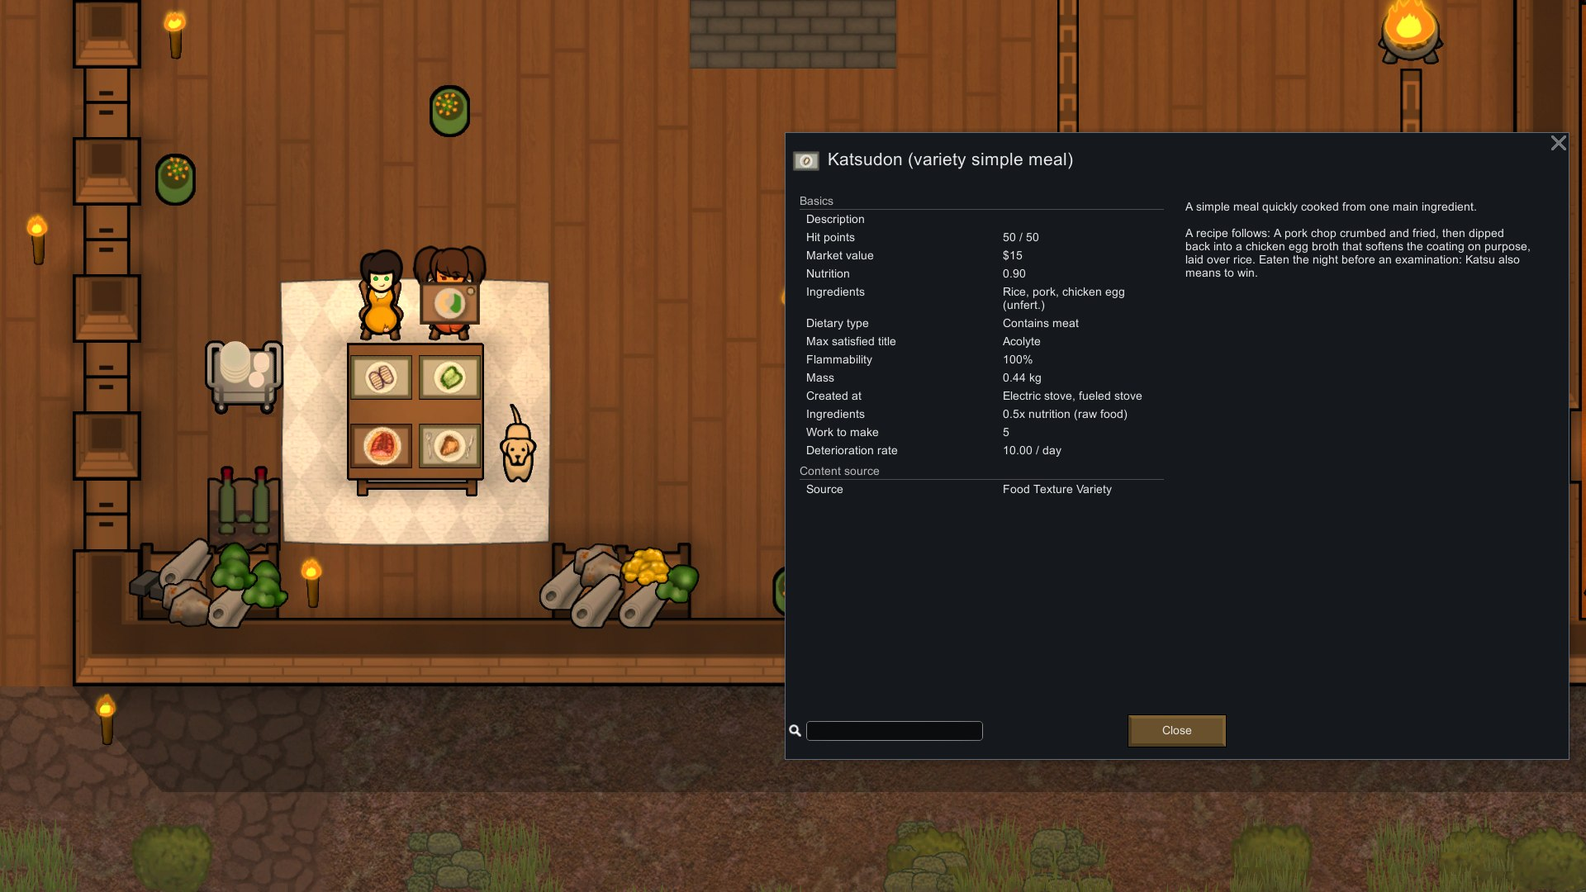
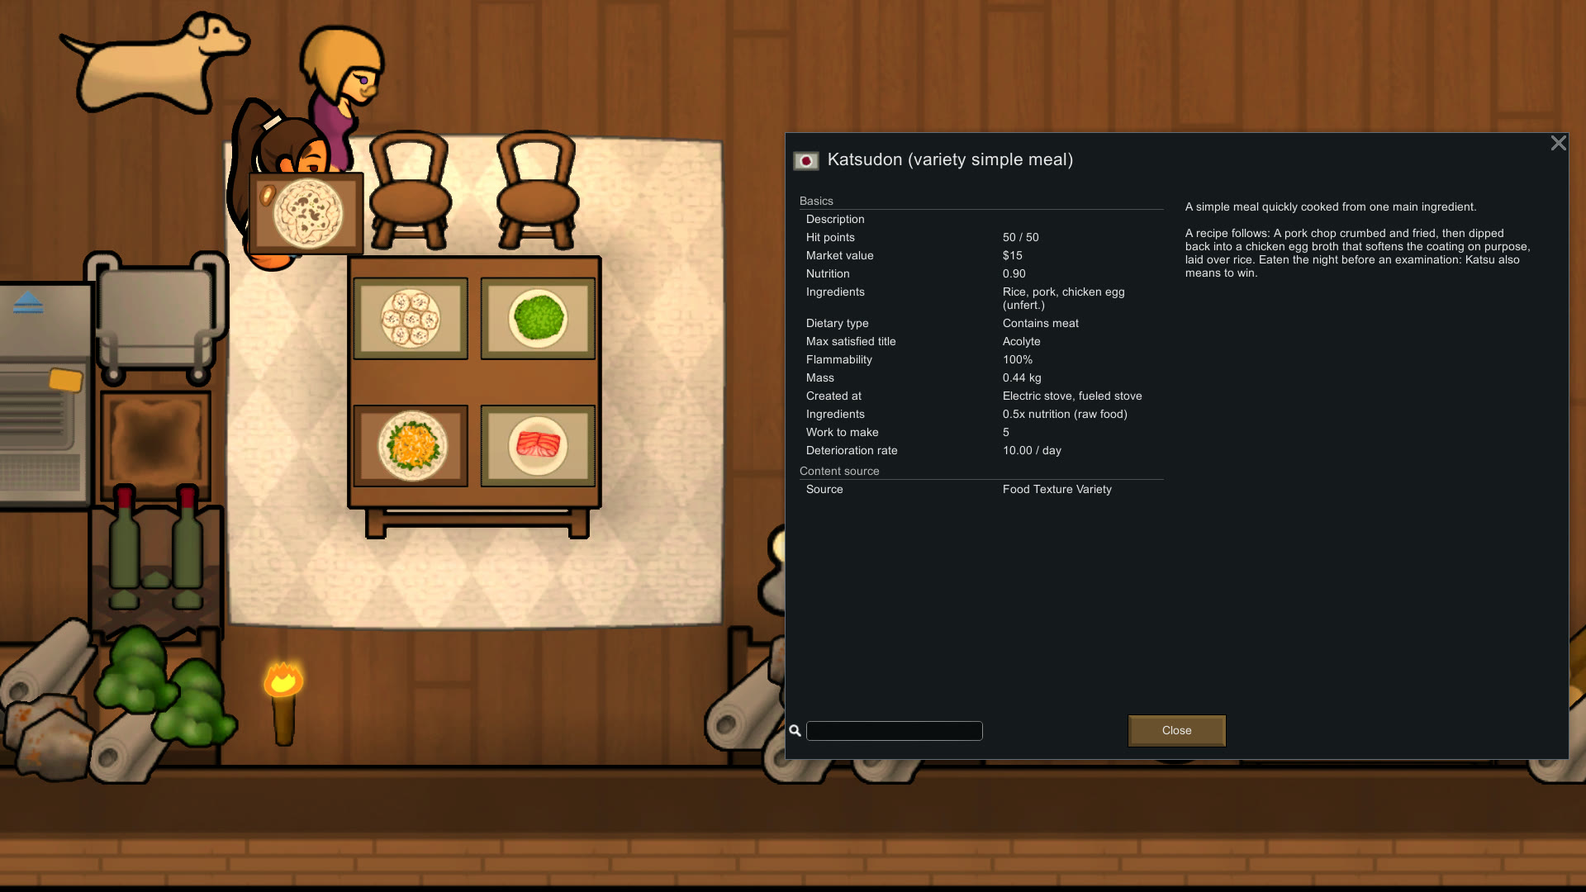
Gallery: pass 7 read, scene 4 logs moved to (191, 88), candidates 1 and 2 kept, NSB and NPT synced

diff --git a/STATUS.md b/STATUS.md
@@ -29,7 +29,7 @@ workshop:     3806100152
 publication_changelog_review_sha: 7f265e28f384edd36d247537fcdd01cc9102865e  # 2026-10-13, owner review of PUBLICATION.md + CHANGELOG.md for the 1.3 line (RimWorld 1.7 support)
 code_review_sha: e4b8606f7aa439285f379d4580b8788011000f75  # 2026-10-13, review of f206a19 to e4b8606f7aa439285f379d4580b8788011000f75: 0 findings; Mod/ diff is About.xml only (modVersion 1.3.0, supportedVersions 1.6 and 1.7, matches the green 1.7 diagnostic) and the Preview images. Earlier: f206a19 (2026-10-13), 83f7019 (2026-10-11), bb13483 (2026-10-06).
 remaining:
-  - "open: PASS 7 FILED 2026-11-10: ticket 20261110-113145-211-2751 on 6dda38e (scenes 1, 2, 4, -NoBatch, -SkipDefCheck, tree frozen until RUN_DONE, evidence Tests/Pickle/Inbox/2026-11-10-gallery-pass-7; check summary total is 3; scene 2 Guest was not visible in pass 6, read its Guest log lines). Before it: PASS 6 READ 2026-11-10 (ticket 38e8 RUN_DONE exit 1): total 3, 2 passed, 1 failed. Scene 4 failed: cell (187, 85) already holds VFEPD_WoodenWagon; VFEPD_WoodenLogs moved to (190, 88) in the feature (header line 10 and step), unplayed. Guest drew in scene 1 (no Exception drawing Guest; the 18 NullReferenceException in Player.log are JobDriver_Ingest on a Yorkshire terrier, ambient fauna). Captures of scenes 1 and 2 (in Inbox 2026-11-10-gallery-pass-6) first look: scene 1 Guest small and half hidden behind Nelim at the top left, scene 2 Guest not visible (Shogun at the other chair), Nelim seated and not biting: score-gallery verdict and refile still to do; ask Virginie before filing. NPT steps changed 2026-11-10: sync-nsb-npt (NPT part) due. PASS 6 FILED 2026-11-10: ticket 20261110-001938-784-38e8 on f2e5b39 (scenes 1, 2, 4, -NoBatch, -SkipDefCheck, tree frozen until RUN_DONE, evidence Tests/Pickle/Inbox/2026-11-10-gallery-pass-6; check summary total is 3, Guest drawn in 1 and 2, read [face-parts] and [face-state] lines of Player.log and send them to PiT, scene 4 logs at (187, 85)). Before it: PASS 5 (ticket 543b) READ 2026-11-10: total 4, 2 passed, 2 failed. Scene 1 failed: Log.Error Exception drawing Guest (NullReferenceException in FacialAnimationControllerComp.UpdateAnimation; Guest never draws, so scene 2 passed with an empty chair, REDO, old 2-candidate deleted). Scene 4 failed: cell (190, 83) already holds FenceGate (decor VFEPD_WoodenLogs line 180 of the feature, pick a free cell). Scene 3 passed, capture opened, 268 px check ok, kept as Art/Gallery/3-candidate-blanquette-shogun-hen.jpg (replaces the older one). NPT asked 2026-11-10 (PiT session) which steps make an anonymous Guest safe for FacialAnimation; waiting for the answer. Then: fix scene 4 cell, fix Guest steps, refile scenes 1, 2, 4 (-NoBatch, -SkipDefCheck), old 1-candidate-table-laid.jpg stays until scene 1 is replayed. Inbox folder Tests/Pickle/Inbox/2026-11-09-gallery-pass-5 kept until refile (Player.log is the NPT evidence). Earlier: REPLAY 4 (ticket d5d0) READ 2026-11-09: 2/2 passed, both captures REFUSED and deleted with the Inbox folders of replays 3 and 4. Scene 2: Nelim stands at the chair facing East, not eating, guest Miel absent, bare rug, only chairs and plates (decor weak, adequacy weak, understanding weak). Scene 4: hat in view but the potato sack hides her body, no loose Long hair, tiny, only torches and fence as decor (adequacy, understanding, decoration under 4). DONE 2026-11-09: sync-nsb-npt, all four scenes recomposed, plan 5, drift check OK. PASS 5 FILED 2026-11-09: ticket 20261109-003112-827-543b on c01007e (all four scenes, -NoBatch, -SkipDefCheck because the pre-check flags FTV Core 3354455179 as not on disk, as before; every cited def exists; tree frozen until RUN_DONE; evidence Tests/Pickle/Inbox/2026-11-09-gallery-pass-5; check summary total is 4). At RUN_DONE: read summary.json, open the four captures (1920x1080, Guest visible in 1 and 2, Nelim facing South in 2, no sack over Nelim in 4), score-gallery, delete REDO captures, recompose, refile. Was: run sync-nsb-npt, recompose scenes 2 and 4 (guest in frame, richer decor, a fallback pose that reads at once, Nelim bigger), score-gallery, Check-ShotlistVsScenario, refile; scenes 1 and 3 follow; one single review by the owner at the end (rule 2026-11-08). Older detail: gallery pass 4 (refit scenes 1 to 3 of the shotlist at 4/5, see Shotlist). Ec48 passed 4/4 (2026-10-18, tree 2747b08): read by the session: 1 refused (four identical katsudon plates, says nothing), 2 kept as candidate (2-candidate-two-dishes-empadao-gnocchi.jpg, card Empadao and Gnocchi, Nelim at the chair), 3 refused as redundant (same plates), 4 refused (Nelim tiny, potato sack hides her, bare garden). Pass 4 plays 1 to 4 of 10-gallery-scenes.feature with four different recipes cooked once each on the table, per-scene outfit, held items, animals and decor; scene 4 also plays in pass 4 (owner order 2026-10-18, without waiting for NPT ticket e457): straw hat over Long loose hair, Show Hair Under Stuff (RaccoonCuddler.ShowHair 3255379190) added to the map; if no hair shows under the hat, replay without the hat. Meals are cooked with the Food Texture Variety recipes FTV_CookMealSimple and FTV_CookMealFine (2026-10-18, owner remark): ingredient pairs chosen for their own FTV texture (beef+potatoes, egg+rice, corn+pork, berries+milk); never played, and Flavor Text may not name FTV_MealSimple, then the card steps fail and the vanilla recipes come back. Decor reworked 2026-10-18 to kitchen props of VFE Props and Decor (all 1x1 per NPT, FoodBox 2x2 swapped for WineRack; GALLERY-PROPS.md "Kitchen and meals"; a placement that fails falls back to the old chest, barrel and hay bale); the FTV Core mod (3354455179) is not in the Windows Workshop folder: read on the capture whether the staging fetched it; Check-Steps.ps1 could not run (Pickle assemblies path): the step texts reuse the played ones plus carries 1 of the item, never played. REPLAY 2 FILED 2026-10-20: ticket 20261020-004150-259-7618 (scenes 2 and 4, scene 4 frame moved to (195, 85) zoom 6; tree frozen until RUN_DONE; evidence Tests/Pickle/Inbox/2026-10-20-gallery-pass-4-replay-2; check the resolution is 1920x1080). REPLAY 3869 READ 2026-10-20: 2/2 passed, both captures refused (scene 2: 1280x720 while the others are 1920x1080, Nelim tiny, not eating; scene 4: Nelim hidden under the info card, no hat visible); scene 2 keeps 2-candidate-two-dishes-empadao-gnocchi.jpg meanwhile (borderline: four identical plates); RECOMPOSED 2026-10-30; TODO: update the scene 4 row of the Shotlist table (zoom 6, carries 1 potato, faces South; feature differs from the table). Rate-gallery plan 2026-10-30: 4.5, 4.5, 5, 4 (scene 3 e weak, scene 4 e and j weak). REPLAY 4 FILED 2026-10-30: ticket 20261030-162606-872-d5d0 on dc99eb5 (scenes 2 and 4, -NoBatch, tree frozen until RUN_DONE, evidence Tests/Pickle/Inbox/2026-10-30-gallery-pass-4-replay-4; check summary total is 2). Earlier note: recompose scenes 2 and 4 (resolution, card off Nelim, hat in view) before any new ticket. RECOMPOSED 2026-10-25: scene 2 frame (179, 109) zoom 4, scene 4 frame (194, 85) zoom 5, hat mod switched to Hat Hair Control 3760821540 (owner's choice 2026-10-20, seed in config/gallery-scenes/); the 1280x720 size is not a ticket option, read it on the capture. Replay 2 folder (ticket 7618, exit 139 boot crash, no report) deleted. REPLAY 3 (bb59) READ 2026-10-30: total 3 (the filter also ran the card scenario), 2 passed, 1 failed: scene 2 "no MealFine lies at (176, 109); there is Table2x2c, RusticRug_Broad, FTV_MealFine" (the forced Ingest step needs the def name FTV_MealFine, fix the feature line, then replay scene 2 alone); scene 4 passed, capture 1920x1080 but REFUSED (potato sack hides Nelim, no loose Long hair visible under the hat, she is small; hen and Gnocchi card ok): RECOMPOSED 2026-10-30 in the feature: zoom 6 at (194, 85), carries 1 RawPotatoes, faces South (hair and face to the camera); scene 1 haul and scene 2 Ingest now name FTV_MealFine; not yet played, next ticket = scenes 2 and 4 (then 1 and 3). Evidence stays in Tests/Pickle/Inbox/2026-10-25-gallery-pass-4-replay-3 until scene 2 and 4 are read again. REPLAY 3 FILED 2026-10-25: ticket 20261025-163115-785-bb59 on a83f3bd (scenes 2 and 4, -NoBatch, tree frozen until RUN_DONE, evidence Tests/Pickle/Inbox/2026-10-25-gallery-pass-4-replay-3; -List showed tests=? : check the report holds 2 scenarios). ON RUN_DONE of bb59: read summary.json (total must be 2, exitReason), then junit.xml; open both captures (1920x1080? Nelim big and left of the card, scene 2 mid-bite with Ingest face and Miel at (175,110), scene 4 hat over loose Long hair, potatoes in her arms, hen in front); scene 2 tick count 90 is a guess, adjust; give a verdict per capture (accept/refuse), keep serious ones as N-candidate-name.jpg in Art/Gallery, delete the Inbox folder, then refile scenes 1 and 3 (forced haul of MealFine for Nelim, Miel mid-walk, scene 3 stands-next-to with Meat_Cow) and update the Replay verdict column of the shotlist. Keep the Player.log if the screen is 1280x720 and send NPT the ticket id. NPT proof ticket 35f9 (forced Ingest) read 2026-10-25: NOT PROVEN (job starts, cat abandons it on Milk 30 ticks later, probably because the species does not eat it); Nelim eating a MealFine stays unplayed, so scene 2 may need its fallback (stands at the chair holding MealSimple). Preview checked up to date 2026-10-25 (7f56a76, sha matches social_preview_sha256). Ticket cdb2 (tree 139f578) ran 2026-10-18: scenes 1 and 3 passed and were kept as candidates (1-candidate-table-laid.jpg, 3-candidate-blanquette-shogun-hen.jpg, plates differ, kitchen props, dog and hen); scene 2 failed (hairstyle Bun does not exist, now FancyBun), scene 4 failed (no meal named FlavorTextFR_Gnocchi, now FlavorTextFR_GnocchiSolo); replay of scenes 2 and 4 filed as ticket 20261019-153604-220-3869 on tree 7f6ddfd (-List showed tests=35 instead of 2: if the report holds more than 2 scenarios the filter did not apply, refile; at RUN_DONE also triage Inbox with Prune-Evidence.ps1, release Parked 2026-10-18-gallery-pass-4 when scenes 2 and 4 are green, STALE Evidence folders 122-with-optionals and 122-without-odyssey were read and kept, About.xml diff read) (frozen until RUN_DONE, evidence Tests/Pickle/Inbox/2026-10-19-gallery-pass-4-replay); the run is parked in Tests/Pickle/Parked/2026-10-18-gallery-pass-4 (RELEASE.md) until scenes 2 and 4 pass again, scene 2 eating pose and scene 4 hat still unread; earlier tickets ( earlier tickets 8b51, 6dd5, 8fbc, 3ceb cancelled unstarted). On RUN_DONE: read summary.json (total 4), open every capture, check the plates differ (FTV Core 3354455179 not in the Windows Workshop folder), scene 2 eating pose (normal+Ingest, standing at the chair facing South; NPT wrote North by mistake, not yet told), scene 4 hair under the hat (remove the hat if none shows), kitchen props placed; keep serious ones as N-candidate-name.jpg; add seen in a capture to GALLERY-PROPS.md (protocols root, commit by path) for FTV and VFE Props and Decor. The seat step asked of NPT is moot (NPT answered: existing steps). Release steps 9a, 9b due at prepareRelease."
+  - "open: PASS 7 READ 2026-11-12 (ticket 2751 RUN_DONE exit 1): total 3, 2 passed, 1 failed. Scene 4 failed: VFEPD_FoodBox (2x2 at (189, 87)) covers (190, 88); VFEPD_WoodenLogs moved to (191, 88) in the feature (header line 10 and step), unplayed. Scenes 1 and 2 captures read: 1 shows Nelim with the plate, Guest, Shogun, four different dishes (kept as 1-candidate-table-laid.jpg, replaces the old one); 2 shows Nelim seated, Shogun front view, four different dishes, Guest not in frame (kept as 2-candidate-two-dishes-nelim-shogun.jpg); both tentative until the owner review at the end. Next: refile scene 4 alone (ask Virginie first), then score-gallery and one review. PASS 7 FILED 2026-11-10: ticket 20261110-113145-211-2751 on 6dda38e (scenes 1, 2, 4, -NoBatch, -SkipDefCheck, tree frozen until RUN_DONE, evidence Tests/Pickle/Inbox/2026-11-10-gallery-pass-7; check summary total is 3; scene 2 Guest was not visible in pass 6, read its Guest log lines). Before it: PASS 6 READ 2026-11-10 (ticket 38e8 RUN_DONE exit 1): total 3, 2 passed, 1 failed. Scene 4 failed: cell (187, 85) already holds VFEPD_WoodenWagon; VFEPD_WoodenLogs moved to (190, 88) in the feature (header line 10 and step), unplayed. Guest drew in scene 1 (no Exception drawing Guest; the 18 NullReferenceException in Player.log are JobDriver_Ingest on a Yorkshire terrier, ambient fauna). Captures of scenes 1 and 2 (in Inbox 2026-11-10-gallery-pass-6) first look: scene 1 Guest small and half hidden behind Nelim at the top left, scene 2 Guest not visible (Shogun at the other chair), Nelim seated and not biting: score-gallery verdict and refile still to do; ask Virginie before filing. NPT steps changed 2026-11-10: sync-nsb-npt (NPT part) due. PASS 6 FILED 2026-11-10: ticket 20261110-001938-784-38e8 on f2e5b39 (scenes 1, 2, 4, -NoBatch, -SkipDefCheck, tree frozen until RUN_DONE, evidence Tests/Pickle/Inbox/2026-11-10-gallery-pass-6; check summary total is 3, Guest drawn in 1 and 2, read [face-parts] and [face-state] lines of Player.log and send them to PiT, scene 4 logs at (187, 85)). Before it: PASS 5 (ticket 543b) READ 2026-11-10: total 4, 2 passed, 2 failed. Scene 1 failed: Log.Error Exception drawing Guest (NullReferenceException in FacialAnimationControllerComp.UpdateAnimation; Guest never draws, so scene 2 passed with an empty chair, REDO, old 2-candidate deleted). Scene 4 failed: cell (190, 83) already holds FenceGate (decor VFEPD_WoodenLogs line 180 of the feature, pick a free cell). Scene 3 passed, capture opened, 268 px check ok, kept as Art/Gallery/3-candidate-blanquette-shogun-hen.jpg (replaces the older one). NPT asked 2026-11-10 (PiT session) which steps make an anonymous Guest safe for FacialAnimation; waiting for the answer. Then: fix scene 4 cell, fix Guest steps, refile scenes 1, 2, 4 (-NoBatch, -SkipDefCheck), old 1-candidate-table-laid.jpg stays until scene 1 is replayed. Inbox folder Tests/Pickle/Inbox/2026-11-09-gallery-pass-5 kept until refile (Player.log is the NPT evidence). Earlier: REPLAY 4 (ticket d5d0) READ 2026-11-09: 2/2 passed, both captures REFUSED and deleted with the Inbox folders of replays 3 and 4. Scene 2: Nelim stands at the chair facing East, not eating, guest Miel absent, bare rug, only chairs and plates (decor weak, adequacy weak, understanding weak). Scene 4: hat in view but the potato sack hides her body, no loose Long hair, tiny, only torches and fence as decor (adequacy, understanding, decoration under 4). DONE 2026-11-09: sync-nsb-npt, all four scenes recomposed, plan 5, drift check OK. PASS 5 FILED 2026-11-09: ticket 20261109-003112-827-543b on c01007e (all four scenes, -NoBatch, -SkipDefCheck because the pre-check flags FTV Core 3354455179 as not on disk, as before; every cited def exists; tree frozen until RUN_DONE; evidence Tests/Pickle/Inbox/2026-11-09-gallery-pass-5; check summary total is 4). At RUN_DONE: read summary.json, open the four captures (1920x1080, Guest visible in 1 and 2, Nelim facing South in 2, no sack over Nelim in 4), score-gallery, delete REDO captures, recompose, refile. Was: run sync-nsb-npt, recompose scenes 2 and 4 (guest in frame, richer decor, a fallback pose that reads at once, Nelim bigger), score-gallery, Check-ShotlistVsScenario, refile; scenes 1 and 3 follow; one single review by the owner at the end (rule 2026-11-08). Older detail: gallery pass 4 (refit scenes 1 to 3 of the shotlist at 4/5, see Shotlist). Ec48 passed 4/4 (2026-10-18, tree 2747b08): read by the session: 1 refused (four identical katsudon plates, says nothing), 2 kept as candidate (2-candidate-two-dishes-empadao-gnocchi.jpg, card Empadao and Gnocchi, Nelim at the chair), 3 refused as redundant (same plates), 4 refused (Nelim tiny, potato sack hides her, bare garden). Pass 4 plays 1 to 4 of 10-gallery-scenes.feature with four different recipes cooked once each on the table, per-scene outfit, held items, animals and decor; scene 4 also plays in pass 4 (owner order 2026-10-18, without waiting for NPT ticket e457): straw hat over Long loose hair, Show Hair Under Stuff (RaccoonCuddler.ShowHair 3255379190) added to the map; if no hair shows under the hat, replay without the hat. Meals are cooked with the Food Texture Variety recipes FTV_CookMealSimple and FTV_CookMealFine (2026-10-18, owner remark): ingredient pairs chosen for their own FTV texture (beef+potatoes, egg+rice, corn+pork, berries+milk); never played, and Flavor Text may not name FTV_MealSimple, then the card steps fail and the vanilla recipes come back. Decor reworked 2026-10-18 to kitchen props of VFE Props and Decor (all 1x1 per NPT, FoodBox 2x2 swapped for WineRack; GALLERY-PROPS.md "Kitchen and meals"; a placement that fails falls back to the old chest, barrel and hay bale); the FTV Core mod (3354455179) is not in the Windows Workshop folder: read on the capture whether the staging fetched it; Check-Steps.ps1 could not run (Pickle assemblies path): the step texts reuse the played ones plus carries 1 of the item, never played. REPLAY 2 FILED 2026-10-20: ticket 20261020-004150-259-7618 (scenes 2 and 4, scene 4 frame moved to (195, 85) zoom 6; tree frozen until RUN_DONE; evidence Tests/Pickle/Inbox/2026-10-20-gallery-pass-4-replay-2; check the resolution is 1920x1080). REPLAY 3869 READ 2026-10-20: 2/2 passed, both captures refused (scene 2: 1280x720 while the others are 1920x1080, Nelim tiny, not eating; scene 4: Nelim hidden under the info card, no hat visible); scene 2 keeps 2-candidate-two-dishes-empadao-gnocchi.jpg meanwhile (borderline: four identical plates); RECOMPOSED 2026-10-30; TODO: update the scene 4 row of the Shotlist table (zoom 6, carries 1 potato, faces South; feature differs from the table). Rate-gallery plan 2026-10-30: 4.5, 4.5, 5, 4 (scene 3 e weak, scene 4 e and j weak). REPLAY 4 FILED 2026-10-30: ticket 20261030-162606-872-d5d0 on dc99eb5 (scenes 2 and 4, -NoBatch, tree frozen until RUN_DONE, evidence Tests/Pickle/Inbox/2026-10-30-gallery-pass-4-replay-4; check summary total is 2). Earlier note: recompose scenes 2 and 4 (resolution, card off Nelim, hat in view) before any new ticket. RECOMPOSED 2026-10-25: scene 2 frame (179, 109) zoom 4, scene 4 frame (194, 85) zoom 5, hat mod switched to Hat Hair Control 3760821540 (owner's choice 2026-10-20, seed in config/gallery-scenes/); the 1280x720 size is not a ticket option, read it on the capture. Replay 2 folder (ticket 7618, exit 139 boot crash, no report) deleted. REPLAY 3 (bb59) READ 2026-10-30: total 3 (the filter also ran the card scenario), 2 passed, 1 failed: scene 2 "no MealFine lies at (176, 109); there is Table2x2c, RusticRug_Broad, FTV_MealFine" (the forced Ingest step needs the def name FTV_MealFine, fix the feature line, then replay scene 2 alone); scene 4 passed, capture 1920x1080 but REFUSED (potato sack hides Nelim, no loose Long hair visible under the hat, she is small; hen and Gnocchi card ok): RECOMPOSED 2026-10-30 in the feature: zoom 6 at (194, 85), carries 1 RawPotatoes, faces South (hair and face to the camera); scene 1 haul and scene 2 Ingest now name FTV_MealFine; not yet played, next ticket = scenes 2 and 4 (then 1 and 3). Evidence stays in Tests/Pickle/Inbox/2026-10-25-gallery-pass-4-replay-3 until scene 2 and 4 are read again. REPLAY 3 FILED 2026-10-25: ticket 20261025-163115-785-bb59 on a83f3bd (scenes 2 and 4, -NoBatch, tree frozen until RUN_DONE, evidence Tests/Pickle/Inbox/2026-10-25-gallery-pass-4-replay-3; -List showed tests=? : check the report holds 2 scenarios). ON RUN_DONE of bb59: read summary.json (total must be 2, exitReason), then junit.xml; open both captures (1920x1080? Nelim big and left of the card, scene 2 mid-bite with Ingest face and Miel at (175,110), scene 4 hat over loose Long hair, potatoes in her arms, hen in front); scene 2 tick count 90 is a guess, adjust; give a verdict per capture (accept/refuse), keep serious ones as N-candidate-name.jpg in Art/Gallery, delete the Inbox folder, then refile scenes 1 and 3 (forced haul of MealFine for Nelim, Miel mid-walk, scene 3 stands-next-to with Meat_Cow) and update the Replay verdict column of the shotlist. Keep the Player.log if the screen is 1280x720 and send NPT the ticket id. NPT proof ticket 35f9 (forced Ingest) read 2026-10-25: NOT PROVEN (job starts, cat abandons it on Milk 30 ticks later, probably because the species does not eat it); Nelim eating a MealFine stays unplayed, so scene 2 may need its fallback (stands at the chair holding MealSimple). Preview checked up to date 2026-10-25 (7f56a76, sha matches social_preview_sha256). Ticket cdb2 (tree 139f578) ran 2026-10-18: scenes 1 and 3 passed and were kept as candidates (1-candidate-table-laid.jpg, 3-candidate-blanquette-shogun-hen.jpg, plates differ, kitchen props, dog and hen); scene 2 failed (hairstyle Bun does not exist, now FancyBun), scene 4 failed (no meal named FlavorTextFR_Gnocchi, now FlavorTextFR_GnocchiSolo); replay of scenes 2 and 4 filed as ticket 20261019-153604-220-3869 on tree 7f6ddfd (-List showed tests=35 instead of 2: if the report holds more than 2 scenarios the filter did not apply, refile; at RUN_DONE also triage Inbox with Prune-Evidence.ps1, release Parked 2026-10-18-gallery-pass-4 when scenes 2 and 4 are green, STALE Evidence folders 122-with-optionals and 122-without-odyssey were read and kept, About.xml diff read) (frozen until RUN_DONE, evidence Tests/Pickle/Inbox/2026-10-19-gallery-pass-4-replay); the run is parked in Tests/Pickle/Parked/2026-10-18-gallery-pass-4 (RELEASE.md) until scenes 2 and 4 pass again, scene 2 eating pose and scene 4 hat still unread; earlier tickets ( earlier tickets 8b51, 6dd5, 8fbc, 3ceb cancelled unstarted). On RUN_DONE: read summary.json (total 4), open every capture, check the plates differ (FTV Core 3354455179 not in the Windows Workshop folder), scene 2 eating pose (normal+Ingest, standing at the chair facing South; NPT wrote North by mistake, not yet told), scene 4 hair under the hat (remove the hat if none shows), kitchen props placed; keep serious ones as N-candidate-name.jpg; add seen in a capture to GALLERY-PROPS.md (protocols root, commit by path) for FTV and VFE Props and Decor. The seat step asked of NPT is moot (NPT answered: existing steps). Release steps 9a, 9b due at prepareRelease."
   - "open: a later publish with update_tags needs STEAM_REFRESH_TOKEN in steam-production of this repository; CI/CD sets it only on the explicit order of the owner. Without it such a publish stops before the upload."
   - "open: the Steam page gallery (Art/Gallery/: 0-preview, 1-two-dishes-nelim-seated, 2-katsudon) was uploaded by hand by the owner on 2026-10-13; reported by her, not checked on the public page. The CI sends the description, preview and tags, never the gallery."
   - "open: the French text of the 233 shorter forms and the new dishes belongs to the companion mod (Flavor Text Extended - Francais); until it lands they show in English in French. Tracked in BACKLOG.md."
@@ -37,7 +37,7 @@ remaining:
   - "limits, not blockers: each Pickle pass passed once per tree (1.2.2 for 1.6, 94d1b99 for 1.7); no cook walks to a stove (no tick passes in 03-cooking); Chinese Traditional Cultural Things Expanded declares no 1.6 and is not certified; no shallot provider is certified."
   - "note: the run scripts look for <rimworld>/<Mod>/. A junction <rimworld>/FlavorTextExtended, made 2026-09-21 and ignored by the root .gitignore, bridges it. Never delete it recursively."
   - "note: desktop.ini and *.ico are local only and gitignored since 2026-10-02 (the two Art .ico files left git, files kept on disk); Mod/desktop.ini must never be committed."
-protocols_read_sha: 43a03343c97b7fd0c609f84861e026b9c3891652
+protocols_read_sha: 90239b994a52093920b440fb20d0b67c552a9693
 ---
 
 # Flavor Text Extended - status
@@ -71,7 +71,7 @@ Replay verdict column: after the run, read each capture (image, adequacy, unders
 
 Rules said back (owner 2026-11-05, 2026-11-07): NSB places, colonists, domestic animals are free; outside NSB needs express validation (the mod's own animals excepted); a colonist property changes only with validation; every outfit is free; every animal the mod includes is shown.
 Sync 2026-11-09. NSB changed since the last sync: dining-nook and plant-garden were decorated and validated 2026-11-07 (lots 5a, 5b), but the save this gallery loads (Nelims-tribe, Mod/Pickle/Fixtures) is still the old undecorated Sanctuary until NSB copies a decorated fixture, so every prop comes from the scenario, Miel's canon moved (eyes Orange, skin GES_Skin_Chocolate, head Female_AverageWide), batches 5k to 5m touch other places only. NPT since 2026-10-25: new steps (holds in hand, put-out, light dimmed, StageDecor made-of and plant clear), none needed here yet. Updated: Miel's looks and Nelim's hairstyle in the gallery feature and the shotlist text. Miel is replaced by an anonymous Guest (her looks are not marked OK in LOOKS-VALIDATION.md, trap 1). Left alone: decor lines (the scenes add their own props; check against the validated NSB decor before recomposing 2 and 4).
-Places read: 2026-11-09   Tribe read: 2026-11-09   Steps read: 2026-11-09
+Places read: 2026-11-12   Tribe read: 2026-11-12   Steps read: 2026-11-12 (NSB: only the docs folder renamed Docs, no content change; NPT: new steps for floors, filth, cultures, work givers, decor burning, none serves these four scenes)
 
 | Place | Shots | Changes for the gallery | Last read |
 |---|---|---|---|
